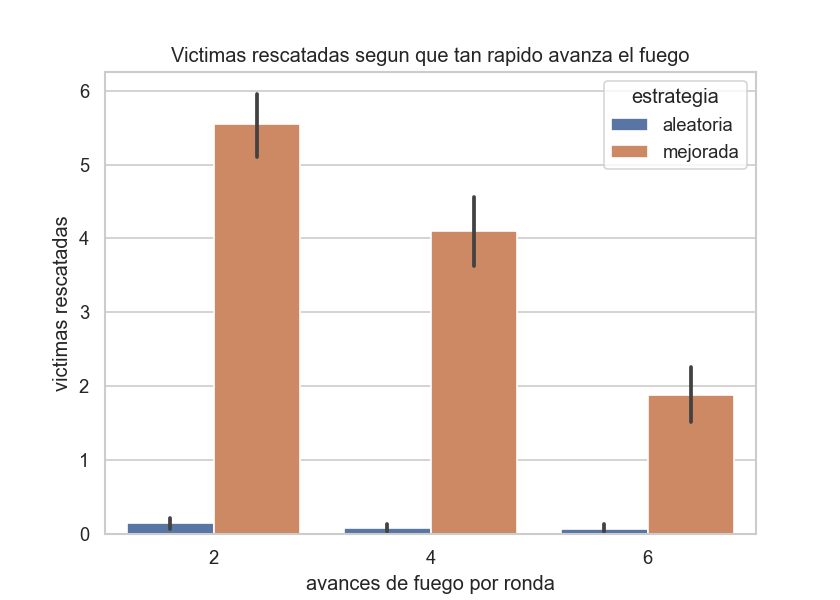
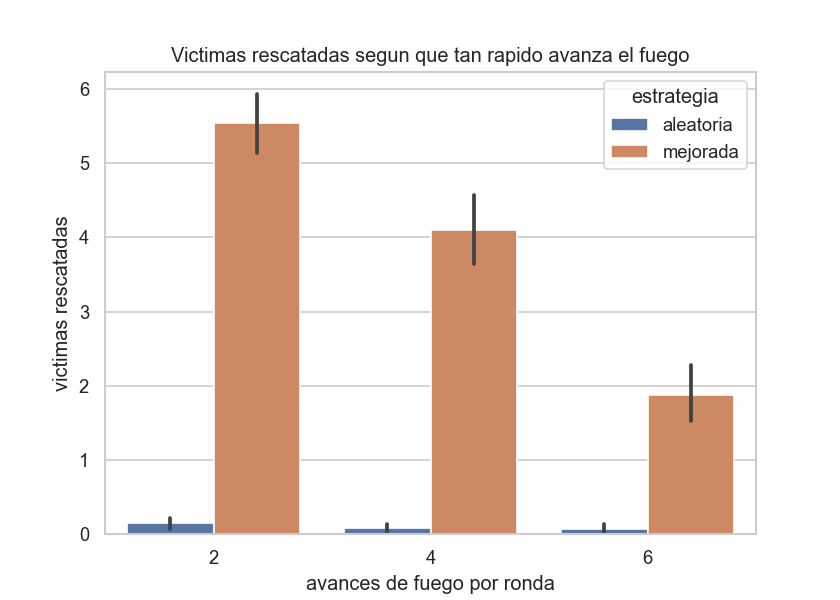
Quitar las lineas de separacion de los comentarios
No las usa nadie mas en el repo y no aportan nada, el titulo de la seccion se
entiende igual en una sola linea.

diff --git a/analisis/resultados.py b/analisis/resultados.py
@@ -8,9 +8,7 @@ import os
 carpeta = os.path.dirname(os.path.abspath(__file__))
 df = pd.read_csv(os.path.join(carpeta, "resultados.csv"))
 
-# ---------------------------------------------------------------------------
-# La tabla que pide el reto: aleatoria contra mejorada
-# ---------------------------------------------------------------------------
+# la tabla que pide el reto, aleatoria contra mejorada
 tabla = df.groupby(["estrategia", "avances", "rescatistas"]).agg(
     rescatados=("Rescatados", "mean"),
     perdidas=("Perdidas", "mean"),
@@ -23,9 +21,7 @@ tabla["porcentaje"] = (tabla["ganadas"] / tabla["corridas"]) * 100
 print(tabla.round(2))
 tabla.to_csv(os.path.join(carpeta, "tabla_resumen.csv"))
 
-# ---------------------------------------------------------------------------
-# Grafica 1: victimas rescatadas por estrategia
-# ---------------------------------------------------------------------------
+# grafica 1, victimas rescatadas por estrategia
 sns.set_theme(style="whitegrid")
 fig, axis = plt.subplots(figsize=(7, 5))
 sns.barplot(data=df, x="avances", y="Rescatados", hue="estrategia", ax=axis)
@@ -35,9 +31,7 @@ axis.set_ylabel("victimas rescatadas")
 plt.savefig(os.path.join(carpeta, "grafica_rescatados.png"), dpi=120)
 plt.close()
 
-# ---------------------------------------------------------------------------
-# Grafica 2: partidas ganadas con la mejorada segun el reparto de roles
-# ---------------------------------------------------------------------------
+# grafica 2, partidas ganadas segun el reparto de roles
 mejorada = df[df["estrategia"] == "mejorada"]
 ganadas = mejorada.groupby(["avances", "rescatistas"])["gano"].sum().reset_index()
 

diff --git a/SimulacionAvanzada/bombero_mejorado.py b/SimulacionAvanzada/bombero_mejorado.py
@@ -27,9 +27,7 @@ class BomberoMejorado(Bombero):
         if self.guardados > 4:
             self.guardados = 4
 
-    # ------------------------------------------------------------------
-    # lo que puede hacer sin moverse
-    # ------------------------------------------------------------------
+    # lo que puede hacer sin moverse de su casilla
     def actuar_aqui(self):
         (col, fila) = self.pos
 
@@ -87,9 +85,7 @@ class BomberoMejorado(Bombero):
                     return False
         return True
 
-    # ------------------------------------------------------------------
     # a donde va y como se mueve
-    # ------------------------------------------------------------------
     def avanzar(self):
         (col, fila) = self.pos
         destino = self.buscar_destino()
